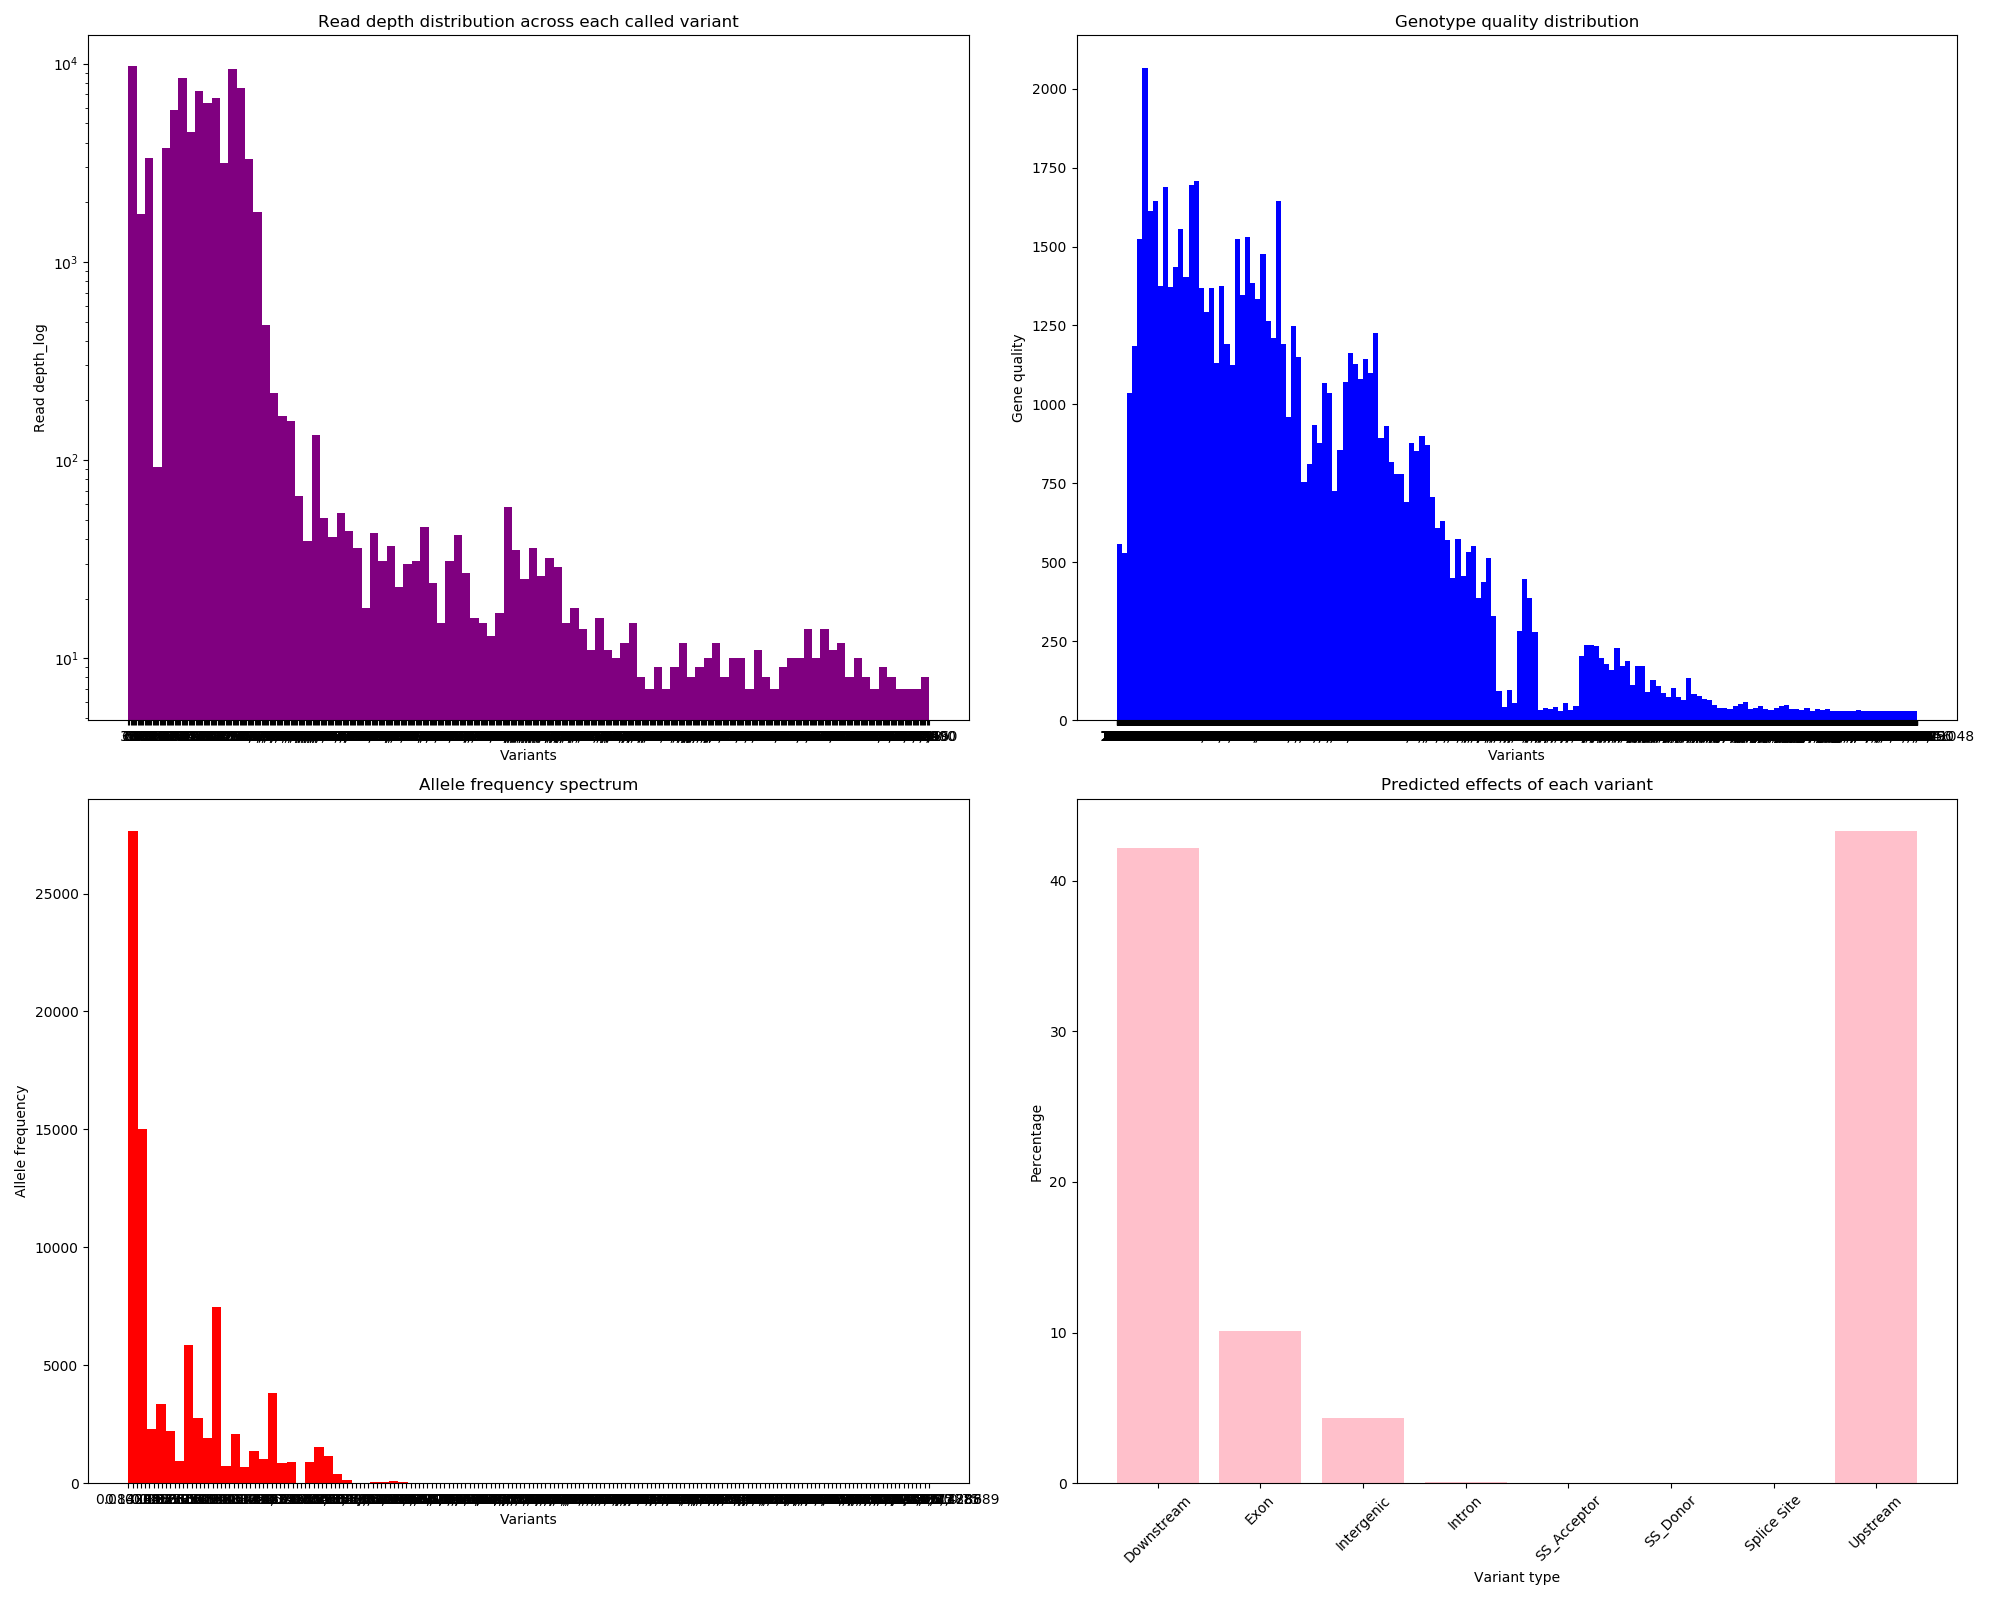
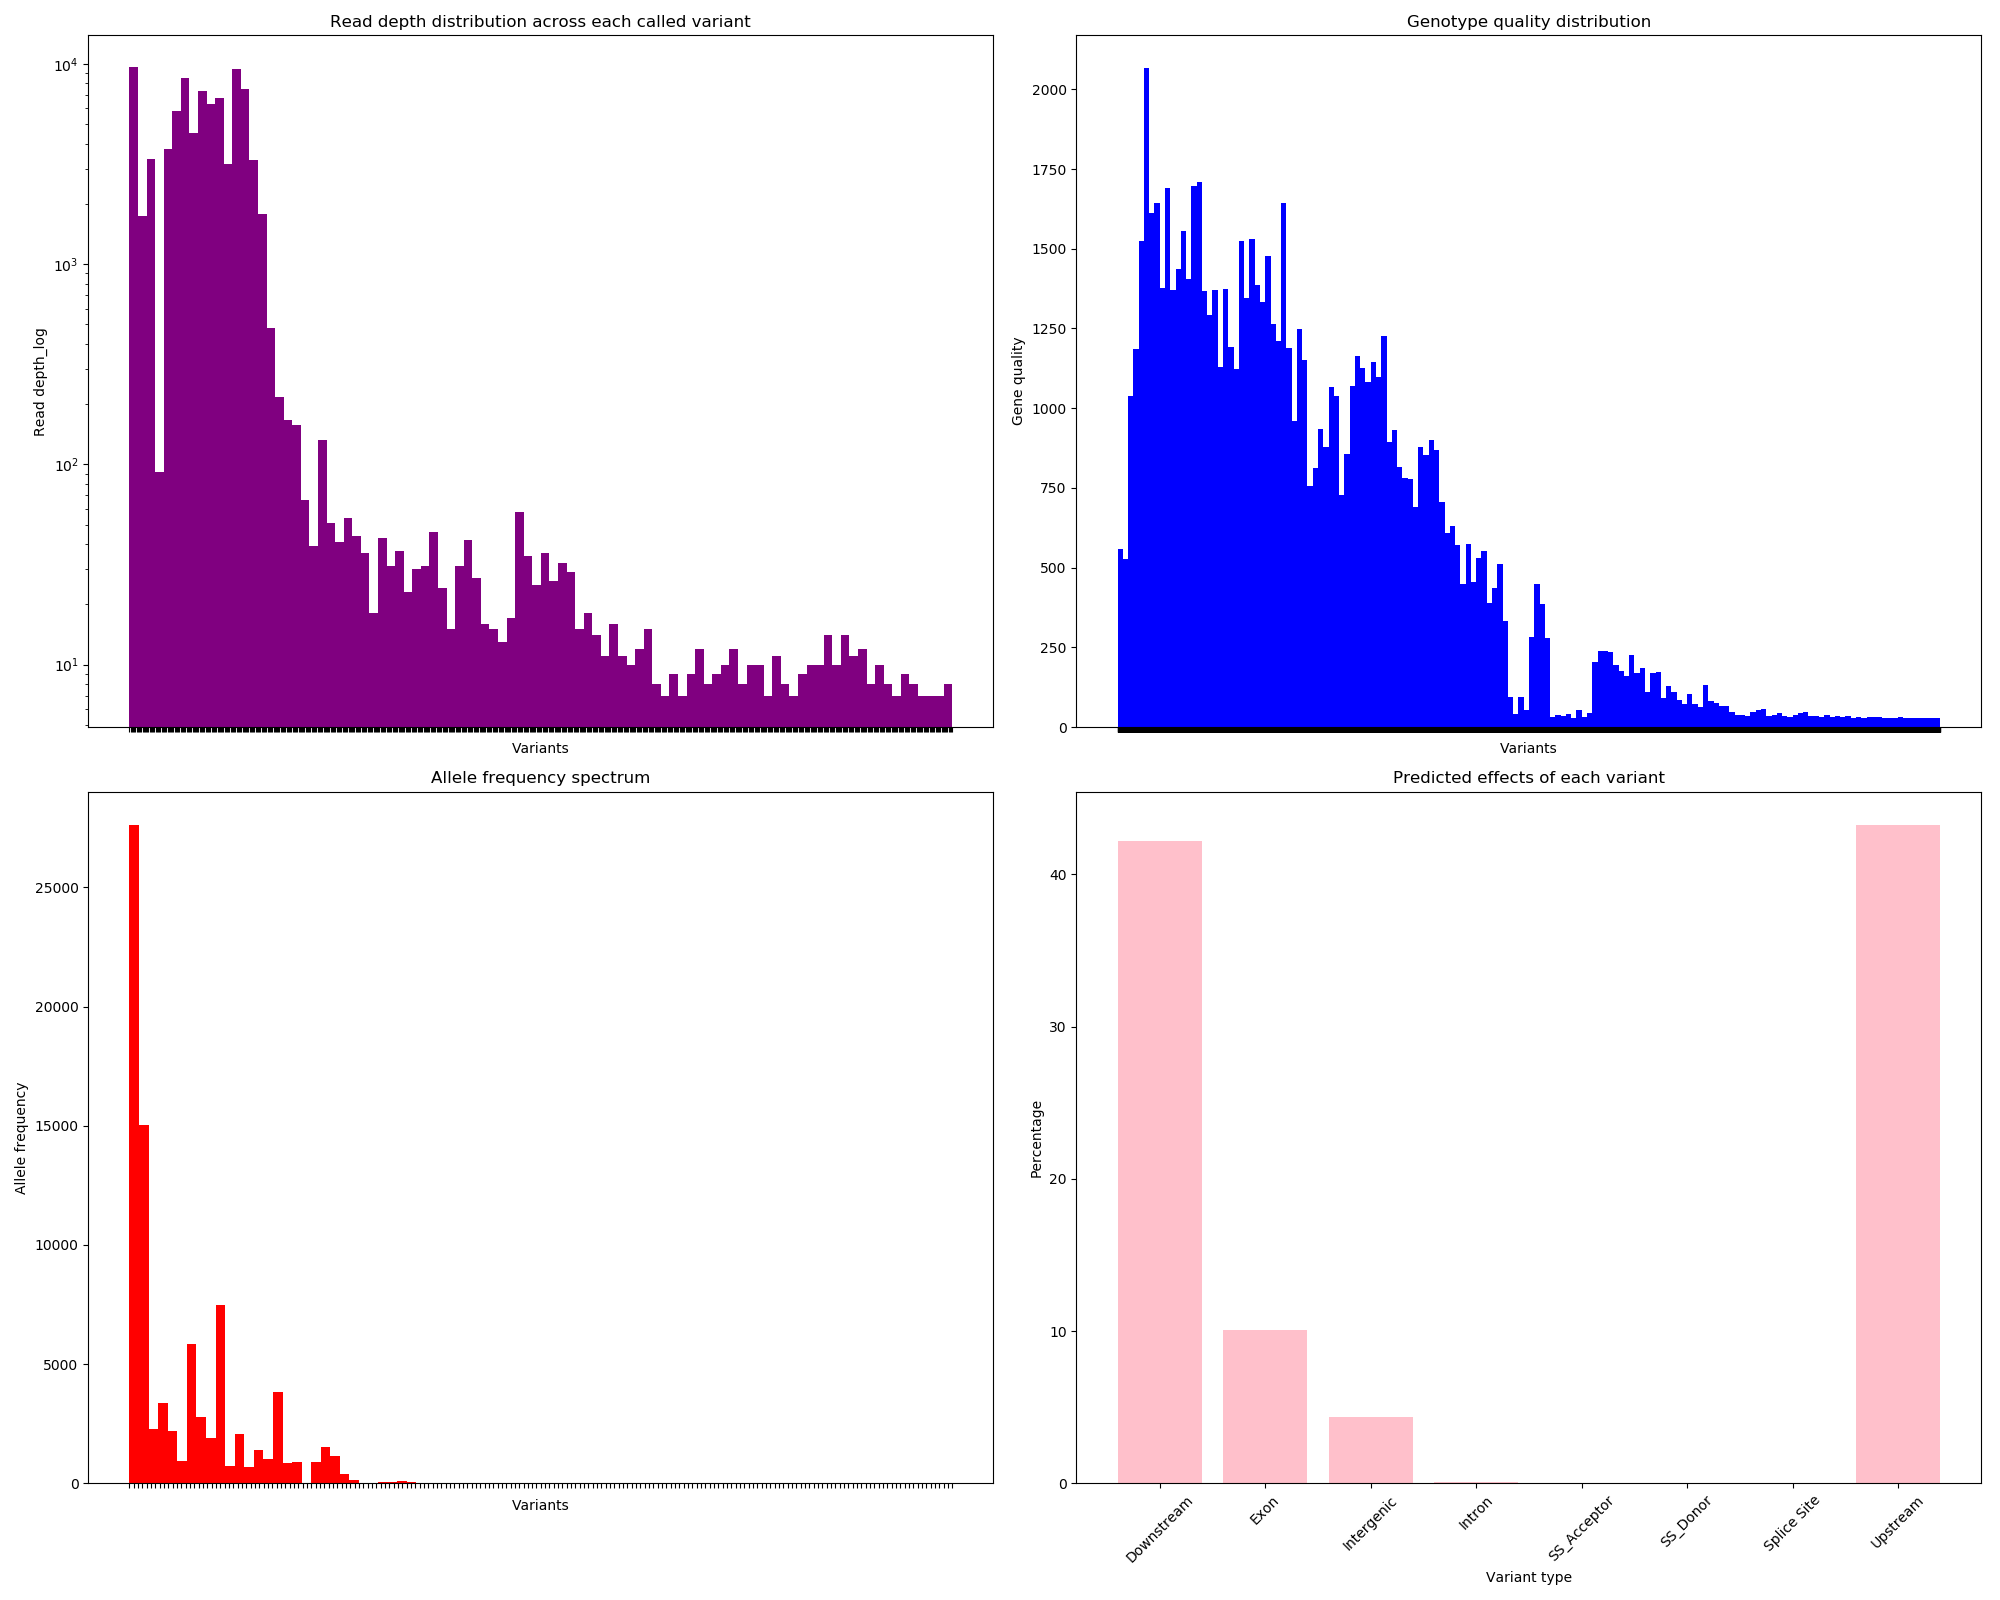
Week3-Updata

diff --git a/Week3/Week-3-Plot.py b/Week3/Week-3-Plot.py
@@ -69,6 +69,7 @@ axes[0].hist(DPV, bins=96, color="purple")
 #x.set_xlim(0,60000)
 #ax.set_ylim(0, 100000)
 #plt.xticks(Tick)
+axes[0].set_xticklabels([], rotation=90)
 axes[0].set_yscale("log")
 axes[0].set_xlabel("Variants")
 axes[0].set_ylabel("Read depth_log")
@@ -85,6 +86,7 @@ axes[1].hist(QRV, bins=156, color="blue")
 #ax.set_ylim(0, 100000)
 #plt.xticks(Tick)
 #axes[1].set_yscale("log")
+axes[1].set_xticklabels([], rotation=90)
 axes[1].set_xlabel("Variants")
 axes[1].set_ylabel("Gene quality")
 
@@ -100,6 +102,7 @@ axes[2].hist(AFV, bins=86, color="red")
 #x.set_xlim(0,60000)
 #ax.set_ylim(0, 100000)
 #plt.xticks(Tick)
+axes[2].set_xticklabels([], rotation=90)
 axes[2].set_xlabel("Variants")
 axes[2].set_ylabel("Allele frequency")
 
